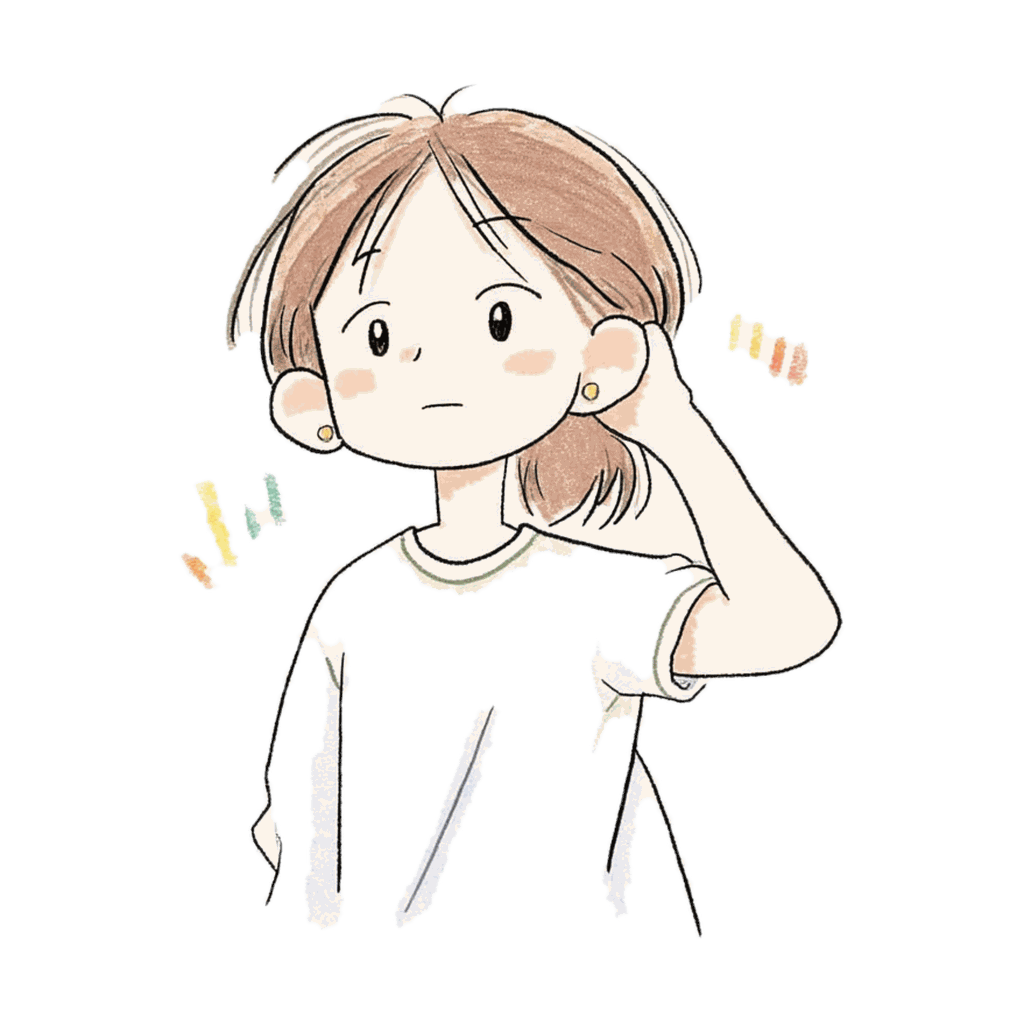
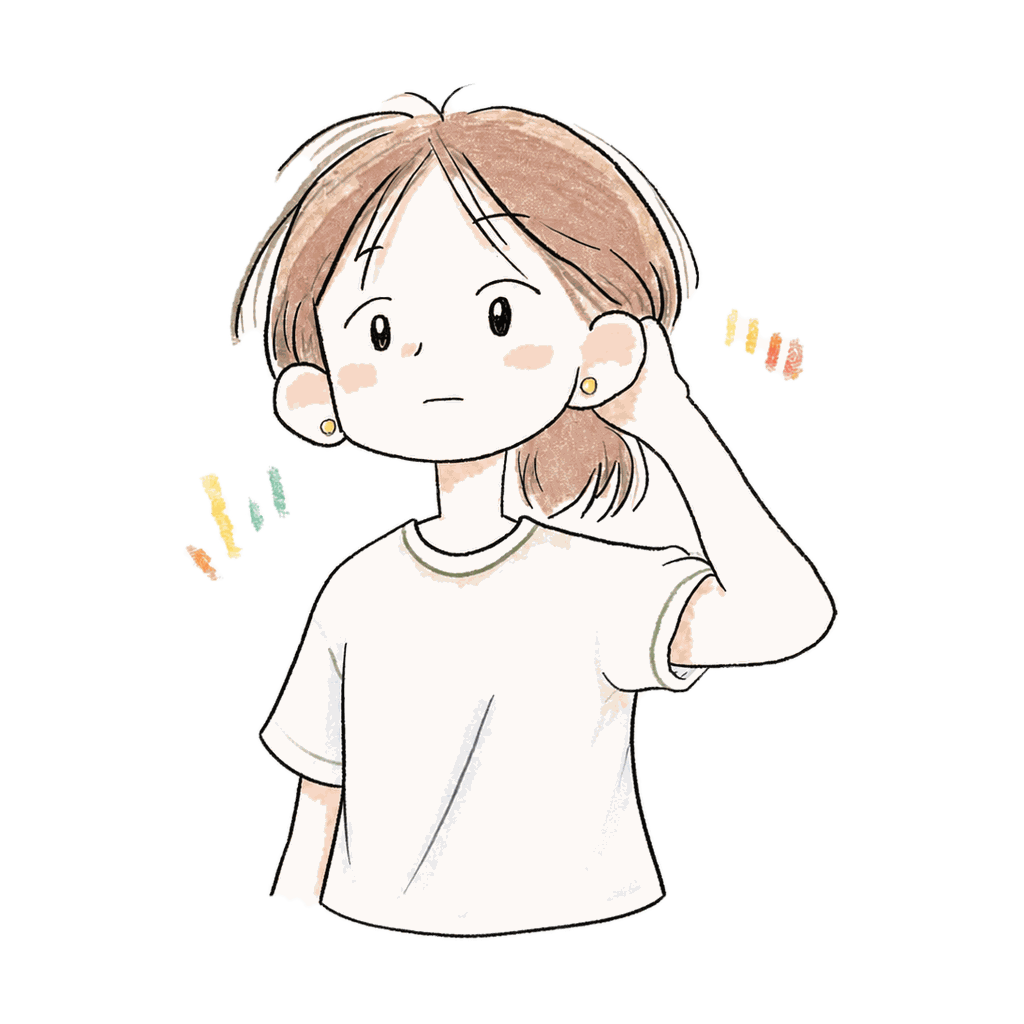
Close the open outlines that let paper punch through 3 illustrations
enter, name and hear all had areas where a subject's own fill color sat
so close to the paper's white that the keying script's flood fill saw
no boundary between them -- the cat's muzzle in enter, the shirt front
in name and hear. Retouching the raw art to close those outlines lets
the pipeline tell interior white from background again.

For enter this meant finishing the jaw outline that had never been
drawn. For name and hear the real gap was the shirt's hem: both side
seams ran straight off the bottom of the canvas with nothing joining
them, so the fabric stayed connected to the exterior paper no matter
how well the collar and sleeves were closed. Retracing the sleeves
alone didn't fix it -- only visualizing the actual connected component
inside the script showed the hem was the missing piece.

Along the way, ruled out reverting to the pre-#30 keying script for
these three: running it against the same raw art produced byte-identical
output, so the frame-peeling change in #30 was never the cause.

Also finishes the illustration set: enter and fresh (from the previous
commit's simplified single-object prompts) are generated and registered
in ILLUSTRATIONS, bringing the kanji illustration count to all 50.

diff --git a/src/features/reading/kanji-illustration.tsx b/src/features/reading/kanji-illustration.tsx
@@ -35,10 +35,12 @@ const ILLUSTRATIONS: Record<string, number> = {
   day: require('@/assets/kanji/day.png'),
   early: require('@/assets/kanji/early.png'),
   eat: require('@/assets/kanji/eat.png'),
+  enter: require('@/assets/kanji/enter.png'),
   exit: require('@/assets/kanji/exit.png'),
   expensive: require('@/assets/kanji/expensive.png'),
   fire: require('@/assets/kanji/fire.png'),
   flower: require('@/assets/kanji/flower.png'),
+  fresh: require('@/assets/kanji/fresh.png'),
   go: require('@/assets/kanji/go.png'),
   hear: require('@/assets/kanji/hear.png'),
   heaven: require('@/assets/kanji/heaven.png'),

diff --git a/docs/log/2026-09.md b/docs/log/2026-09.md
@@ -643,3 +643,29 @@
   既存ユーザーに1回だけ出る。学習記録が消えないことはコード上確認済み(`seed.ts` が消すのは
   コンテンツ表のみ)だが、実際の移行は動かしていない。`release-checklist.md` に送った
 - **`check.sh` の生成物依存**(前回から継続)
+
+## 2026-09-08 入・新のイラストプロンプトを書き直し、白抜けの原因を特定した
+
+- 主導: 🤝 協働
+- 関連: `docs/対象漢字リスト.md` / `docs/画風プロンプト定義.md` / `scripts/illustration-cutout/`
+
+**人がやったこと**
+
+- `入`(戸口から入る人物カット)と `新`(新旧の葉の対比)のプロンプトを、単体オブジェクトの短いプロンプトに書き直す方針を決定
+- Midjourney で `enter` / `fresh` を生成
+- `enter` / `name` / `hear` の生画像を Photopea 等で手直しし、輪郭線を閉じた(3回のイテレーション)
+- 3枚とも最終的に白抜けが解消したことを確認し、「このままでよい」と判断(`fresh` の足元の影のまだら抜けは装飾要素のため許容)
+
+**AIに任せたこと**
+
+- プロンプト文言の起案、`docs/対象漢字リスト.md` への反映
+- **白抜けの原因の特定。** 単なる「輪郭線の隙間」ではなく、キーイングの実装(`paper_mask` の連結成分判定)を直接呼び出して検証し、`enter` は頬〜顎の輪郭が未接続、`name`/`hear` はシャツの裾が画像下端まで開いたまま(閉じる線が無い)ことをピンポイントで特定した
+- 修正のたびに暗い背景に合成して可視化し、直った/直っていないを画像で提示
+- `enter` / `fresh` を `ILLUSTRATIONS`(`kanji-illustration.tsx`)に登録
+- `docs/release-checklist.md` の「漢字イラスト50枚」と「name/hear の白抜け」を完了に更新。**ただし `name` に残る焼き込み枠の縦線(x=141..152)は別原因(未解決)として切り分けて残した**
+
+**やり直した / 詰まったこと**
+
+- **「PR#30 前のスクリプトに戻せば直る」という開発者の仮説を先に検証し、否定した。** 実際に pre-#30 の `keying.py` を復元して3枚とも動かしたところ、出力はバイト単位で現行版と完全一致。PR#30 の額縁剥がし(`frame_depth`)はこの3枚には無関係で、原因は別にあった
+- **1回目の hear 修正では直らなかった。** 襟・袖は正しく閉じたが、裾の閉じ線が無いまま残っていて、胴体はまだ紙と地続きだった。連結成分を可視化して初めて「裾が原因」と分かった
+- 座標(x=141..152)を使った既存の申し送りは、正規化後の `assets/kanji/name.png` の座標系とは一致しないため、今回は座標を使わず暗背景合成で目視確認する方式に切り替えた

diff --git a/docs/release-checklist.md b/docs/release-checklist.md
@@ -37,20 +37,23 @@
 
 ## 2. Must have のうち未実装のもの(要件5.1)
 
-- [ ] **漢字イラスト50枚**(5.1-3 / 5.4)
-      — `src/features/reading/kanji-illustration.tsx` の `ILLUSTRATIONS` が空で、
-      漢字フォーカス画面は枠のまま。**開発者しか進められない直列作業で、リードタイムが最長**。
-      まず 山/空/歩/**思** の4字で画風を確定させる(抽象語の「思」で破綻しないことが合格ライン)
-- [ ] **`name` / `hear` の服の白が抜けているのを直す**
-      — 暗いテーマで服が消え、輪郭線とシワだけが浮く。
-      `name` にはさらに、生画像の枠が焼き込まれた白い破線状の縦線(x=141..152)が残っている
+- [x] **漢字イラスト50枚**(5.1-3 / 5.4)→ 完了(2026-09-08)。
+      `ILLUSTRATIONS` に50字全て登録済み。`src/content/index.ts` の `illustrationKey` との
+      対応漏れ・余りともに無し
+- [x] **`name` / `hear` の服の白が抜けているのを直す** → 完了(2026-09-08)。
+      生画像側でシャツのシルエット(袖・裾)を閉じる線を足して再生成した。輪郭線の内側が
+      紙と地続きだったのが原因(`docs/log/2026-09.md`)
+- [ ] **`name` に残る、生画像の枠が焼き込まれた白い破線状の縦線を消す**
+      — 上記のシャツ修正では直っていない。別原因(#25/#30 が触れた額縁の焼き込み)なので
+      切り分けて対応する
 - [x] **推測クイズ「読めるかな?」**(5.1-6 / 4.4)→ 完了(`docs/plans/guess-quiz.md`)。**面白さの主軸**
 - [x] **漢字の樹**(5.1-7 / 4.5)→ 完了(`docs/plans/kanji-tree.md`)
 - [x] **簡易オンボーディング**(5.1-10)→ 完了(`docs/plans/onboarding.md`)。初回起動の3画面
 
 **実装済み**: 会話文セット58文 / 例文表示画面 / 漢字フォーカス画面 / SRS復習 /
 段階的再登場(第1・第2段階) / 1日3字の上限 / 桜テーマ / 英語UI / RevenueCat SDK の初期化 /
-漢字の樹(一覧グリッド + 1字の樹) / 推測クイズ「読めるかな?」 / 簡易オンボーディング。
+漢字の樹(一覧グリッド + 1字の樹) / 推測クイズ「読めるかな?」 / 簡易オンボーディング /
+漢字イラスト50枚。
 
 ## 3. 出す前に実機で確かめること
 

diff --git a/docs/対象漢字リスト.md b/docs/対象漢字リスト.md
@@ -326,9 +326,9 @@ uv run --project scripts/illustration-cutout \
 - [x] 各字のイラストSUBJECT記述 → **Tier 1〜3 の表に `イラストSUBJECT` 列として追加**(2026-09-04)。生成後に破綻した字だけ表を上書きする
 - [ ] 天 のSUBJECT → 空全体が画面を占めて切り抜けない。太陽と雲だけを単体オブジェクトにする改稿も通らなかった(2026-09-06)。枠線で囲う方向を次に試す
 - [ ] 食 のSUBJECT → 人物ではなく猫にする案が出ている(未生成)
-- [ ] 入 のSUBJECT → 人物(ミアが戸口から入る絵)から単体オブジェクト(猫が箱に入る絵)に変更
-      (2026-09-08)。**未生成**(開発者がスクリプトを回して `assets/kanji/` に登録する)
-- [ ] 新 のSUBJECT → 新旧の葉の対比から単体オブジェクト(タグ付きの新品の緑のワンピース)に変更
-      (2026-09-08)。**未生成**(同上)
+- [x] 入 のSUBJECT → 人物(ミアが戸口から入る絵)から単体オブジェクト(猫が箱に入る絵)に変更
+      → 生成・登録完了(2026-09-08)
+- [x] 新 のSUBJECT → 新旧の葉の対比から単体オブジェクト(タグ付きの新品の緑のワンピース)に変更
+      → 生成・登録完了(2026-09-08)。足元の影の縁がまだら抜けするが、装飾要素のため許容
 - [ ] 火 のSUBJECT → 現行でも通るが改善したい(未着手)
 - [ ] 曜日関連5字を1章にまとめるか分散させるか
